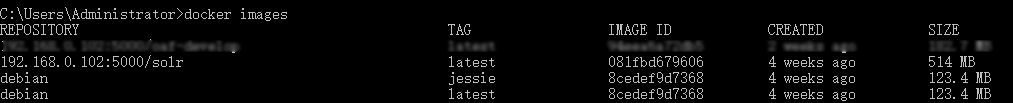
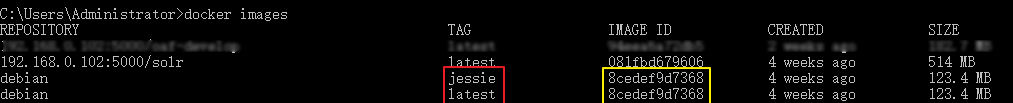
update docker

Changed region(s): [[0.5814, 0.6408, 0.7038, 0.6699], [0.4284, 0.6408, 0.5202, 0.6699]]

diff --git a/_posts/2017-04-19-DOCKER命令.md b/_posts/2017-04-19-DOCKER命令.md
@@ -44,6 +44,7 @@ tag: 博客
 
 ### images命令 
 
-查看镜像列表，通过这个命令可以查看镜像来自哪个服务器，镜像tag，镜像ID，镜像的创建时间以及镜像的实际大小。在执行了`docker images`命令结果如下图所示：
+查看镜像列表，通过这个命令可以查看镜像来自哪个服务器（`REPOSITORY表示，如果没有/则表示官方镜像，类似于username/repos_name表示GitHub的个人公共库，类似于regsistory.example.com:5000/repos_name则表示的是私服`），镜像tag，镜像ID，镜像的创建时间以及镜像的实际大小。在执行了`docker images`命令结果如下图所示：
 
 <img src="/images/posts/dockerCmd1/docker-images.png" height="103" width="1013"> 
+上图中红色标出的部分，显示了debian的两个不同的tag。黄色标出的部分是两个debian的镜像ID，两个镜像ID一样是因为这是同一个镜像起了不同的tag名（后面会介绍tag命令的使用）
